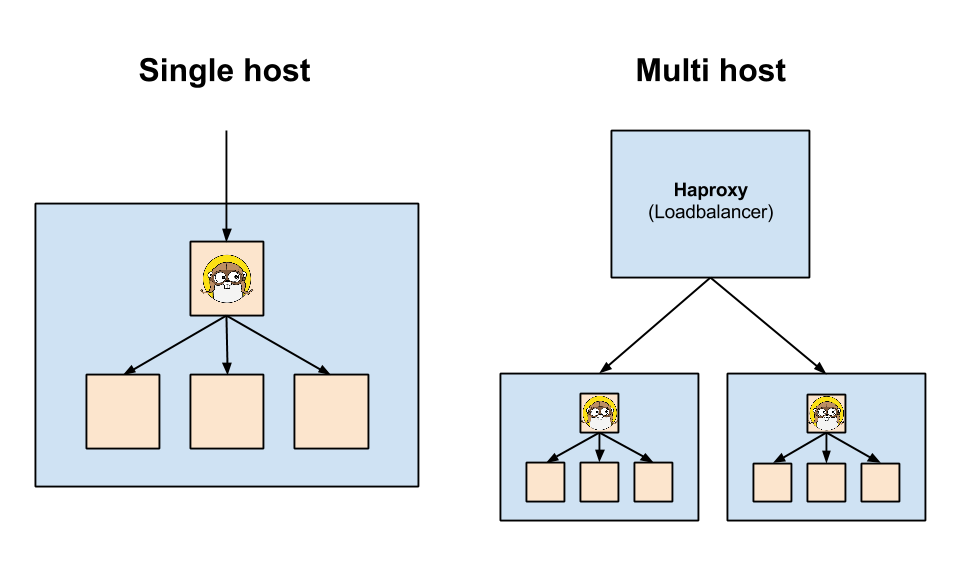
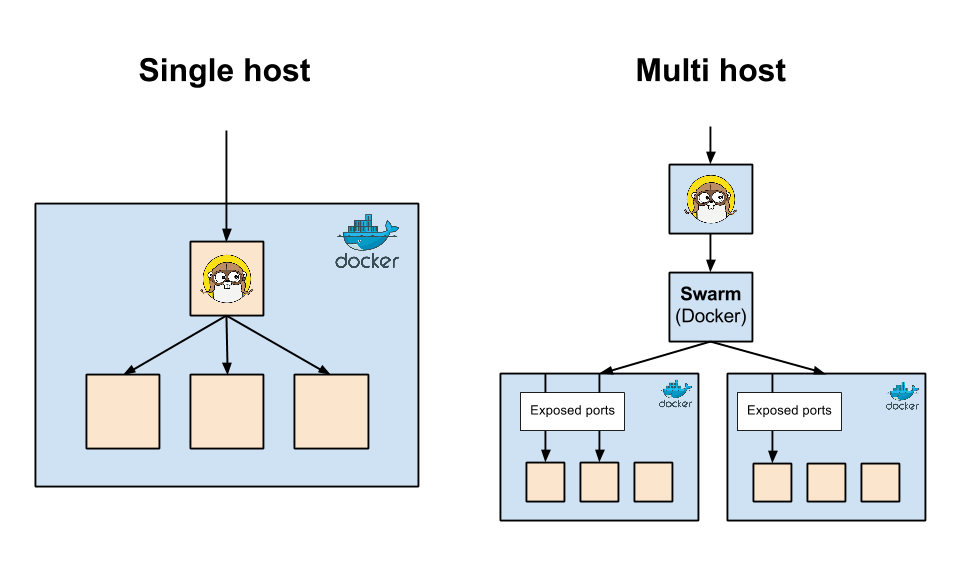
Update docs.

diff --git a/README.md b/README.md
@@ -51,8 +51,8 @@ $ docker run -d -p 0.0.0.0:80:80 -v /var/run/docker.sock:/var/run/docker.sock ni
 ### Why?
 
 I created this proxy for 2 reasons.
-* To be able to implement this on a local development host with multiple containers.
-* So loadbalancers don't have to be on the same network as the other Docker containers.
+* Local development with more than one container that needs to run on a single HTTP port (eg. 80)
+* Load balance across multiple hosts with containers ready to serve a single site. Powered by Docker Swarm.
 
 ![Why](/docs/why.png "Why")
 
